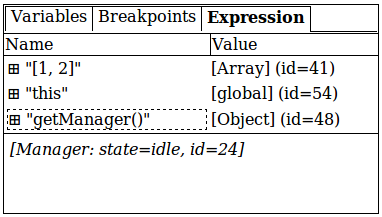
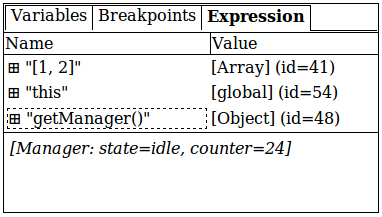
change string representation on screen-shot

diff --git a/wiki/ui-mocks-internal/ui_mocks.html b/wiki/ui-mocks-internal/ui_mocks.html
@@ -442,7 +442,7 @@
   </tr>
   <tr>
     <td style="border: solid thin; padding: 0.4em">
-      <i>[Manager: state=idle, id=24]</i><br>
+      <i>[Manager: state=idle, counter=24]</i><br>
       <div style="height: 3em;"></div>
     </td>
   </tr>
